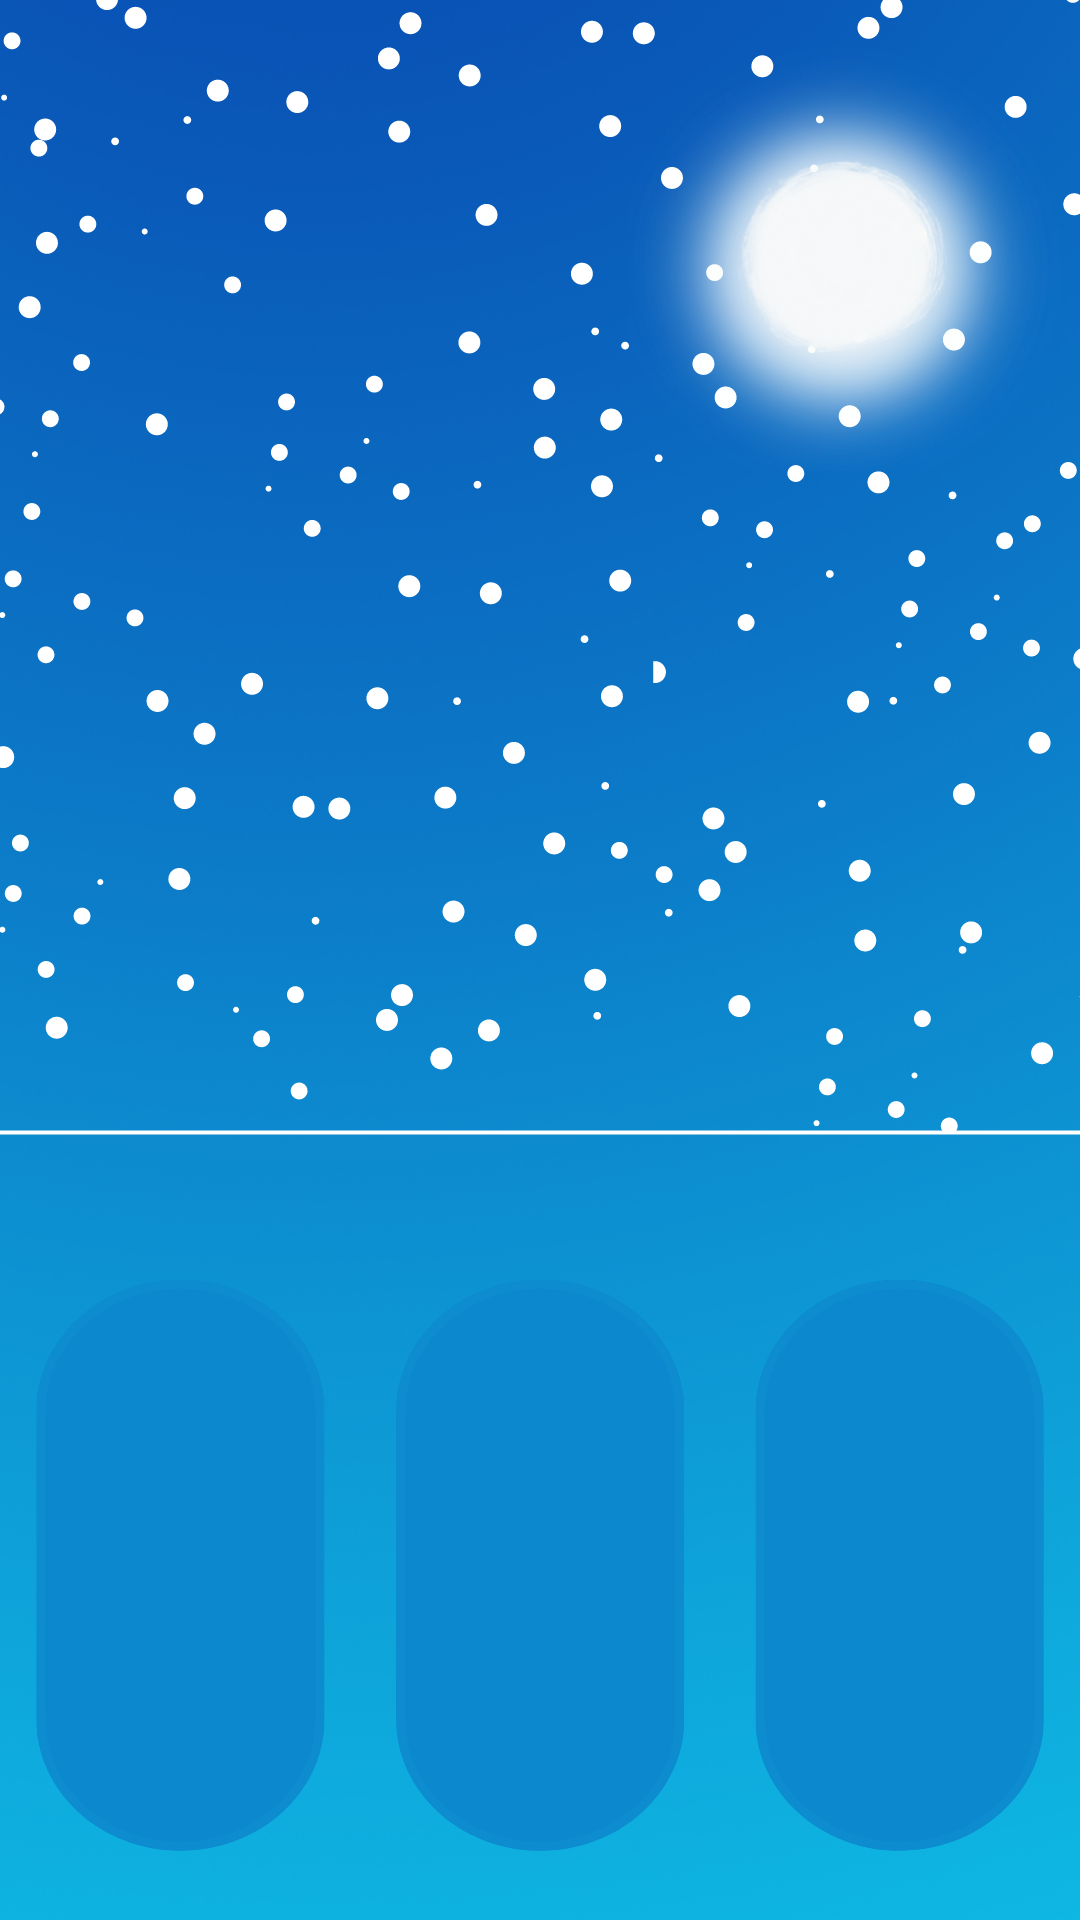
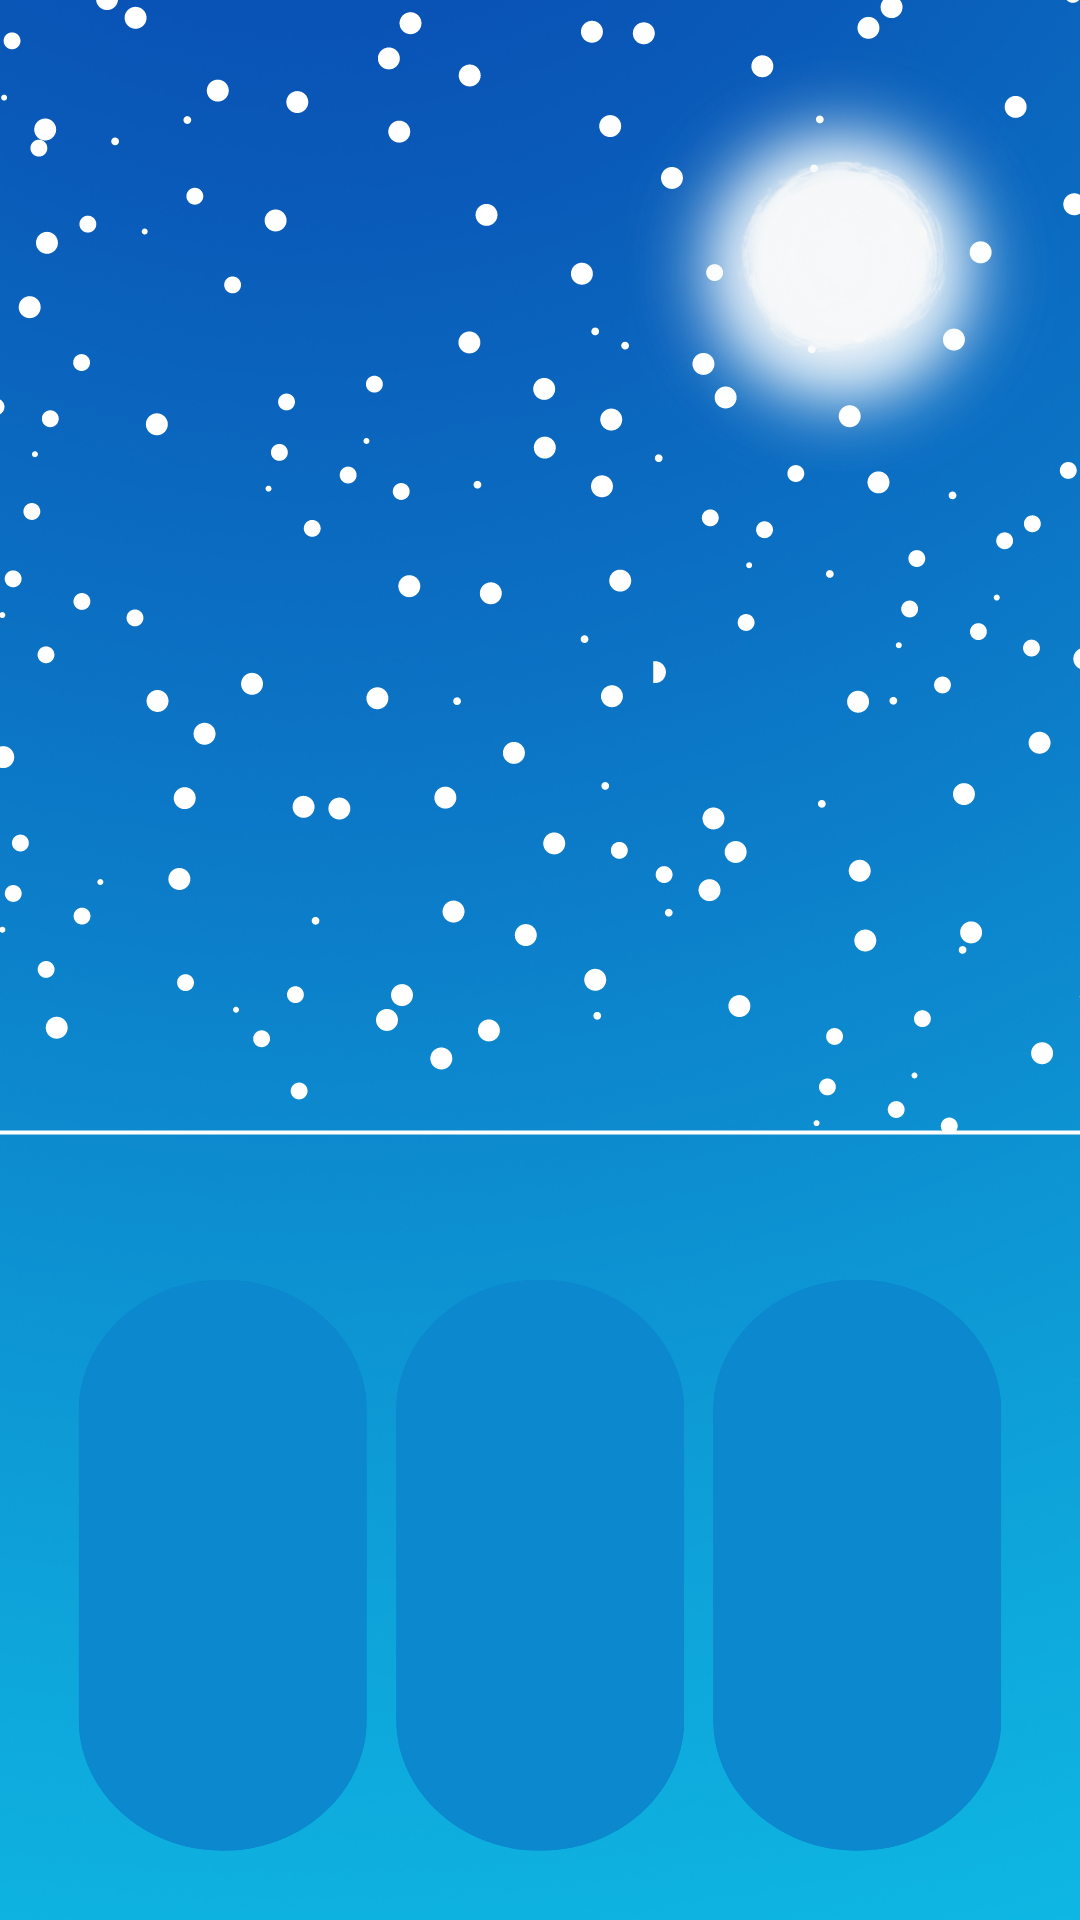
Creating forecast grid in JS

diff --git a/src/script.js b/src/script.js
@@ -60,6 +60,38 @@ function formatDate(date) {
 let todaysDate = document.querySelector("#current-date");
 todaysDate.innerHTML = formatDate(currentTime);
 
+// Current Location and data
+
+function currentLocation() {
+  navigator.geolocation.getCurrentPosition(getCityName);
+}
+
+function getCityName(position) {
+  let latitude = position.coords.latitude;
+  let longitude = position.coords.longitude;
+  let apiKey = "a7083641b7ebf003aec9614bf223ec5f";
+  let apiUrl = `http://api.openweathermap.org/geo/1.0/reverse?lat=${latitude}&lon=${longitude}&appid=${apiKey}`;
+  axios.get(apiUrl).then(displayCityName);
+}
+
+function displayCityName(response) {
+  currentCityDisplay = document.querySelector("#current-city");
+  currentCityName = response.data[0].name;
+  units = "metric";
+  apiKey = "a7083641b7ebf003aec9614bf223ec5f";
+  let currentTemperatureUrl = `https://api.openweathermap.org/data/2.5/weather?q=${currentCityName}&units=${unit}&appid=${apiKey}`;
+  currentCityDisplay.innerHTML = `${currentCityName}`;
+  axios.get(currentTemperatureUrl).then(showCurrentTemperature);
+}
+
+function showCurrentTemperature(response) {
+  let currentMainTemp = document.querySelector("#main-temp");
+  let currentTemp = Math.round(response.data.main.temp);
+  currentMainTemp.innerHTML = `${currentTemp}`;
+}
+
+window.onload = currentLocation;
+
 // Search Bar
 
 function cityName(event) {
@@ -75,11 +107,11 @@ function cityName(event) {
 
 function showMainTemperature(response) {
   let mainDegree = document.querySelector("#main-temp");
-  let mainTemp = Math.round(response.data.main.temp);
+  let mainTemp = Math.round(celsiusTemperature);
   let mainHighDegree = document.querySelector("#main-high");
-  let highTemp = Math.round(response.data.main.temp_max);
+  let highTemp = Math.round(celsiusTemperatureHigh);
   let mainLowDegree = document.querySelector("#main-low");
-  let lowTemp = Math.round(response.data.main.temp_min);
+  let lowTemp = Math.round(celsiusTemperatureLow);
   let mainForecast = document.querySelector("#main-forecast");
   let forecast = response.data.weather[0].main;
   let updateElement = document.querySelector("#updated");
@@ -97,12 +129,18 @@ function showMainTemperature(response) {
   if (forecastImage === "Rain") {
     forecastImage = "rainy";
   }
+
+  celsiusTemperature = response.data.main.temp;
+  celsiusTemperatureHigh = response.data.main.temp_max;
+  celsiusTemperatureLow = response.data.main.temp_min;
+
   mainDegree.innerHTML = `${mainTemp}`;
   mainHighDegree.innerHTML = `${highTemp}`;
   mainLowDegree.innerHTML = `${lowTemp}`;
   mainForecast.innerHTML = `${forecast}`;
   updateElement.innerHTML = formatUpdate(response.data.dt * 1000);
   backgroundImage.setAttribute("src", `images/${forecastImage}.png`);
+  backgroundImage.setAttribute("alt", response.data.weather[0].description);
 }
 
 function formatUpdate(timestamp) {
@@ -134,44 +172,66 @@ function formatUpdate(timestamp) {
 let form = document.querySelector(".search-bar");
 form.addEventListener("submit", cityName);
 
+// Forecast
+
+function displayForecast() {
+  let forecastElement = document.querySelector("#forecast");
+
+  let forecastHTML = `<div class="row">`;
+  let days = ["MON", "TUES", "WED"];
+  days.forEach(function (day) {
+    forecastHTML =
+      forecastHTML +
+      `<div class="col-4">
+  <h2 class="forecast-day" id="item1">${day}</h2>
+  <span class="fa-solid fa-sun" class="forecast-icon" id="item2"></span>
+  <br />
+  <p class="forecast-temp id="item3">
+   <span id="forecast-temp-high">29 |</span><span id="forecast-temp-low"> 23</span>
+  </p>
+</div>`;
+  });
+
+  forecastElement.innerHTML = forecastHTML;
+  displayForecast();
+}
+
 // Celsius / Fahrenheit Conversion
 
-function fahrenheitConversion() {
+function fahrenheitConversion(event) {
+  event.preventDefault();
   let mainDegree = document.querySelector("#main-temp");
-  let temperature = mainDegree.innerHTML;
-  let fahrenheit = Math.round((temperature * 9) / 5 + 32);
-  mainDegree.innerHTML = `${fahrenheit}`;
-
   let highDegree = document.querySelector("#main-high");
-  let highTemp = highDegree.innerHTML;
-  let highFahrenheit = Math.round((highTemp * 9) / 5 + 32);
-  highDegree.innerHTML = `${highFahrenheit}`;
-
   let lowDegree = document.querySelector("#main-low");
-  let lowTemp = lowDegree.innerHTML;
-  let lowFahrenheit = Math.round((lowTemp * 9) / 5 + 32);
-  lowDegree.innerHTML = `${lowFahrenheit}`;
+
+  celsiusLink.classList.remove("active");
+  fahrenheitLink.classList.add("active");
+
+  mainDegree.innerHTML = Math.round((celsiusTemperature * 9) / 5 + 32);
+  highDegree.innerHTML = Math.round((celsiusTemperatureHigh * 9) / 5 + 32);
+  lowDegree.innerHTML = Math.round((celsiusTemperatureLow * 9) / 5 + 32);
 }
 
-let conversion = document.querySelector("#fahrenheit-link");
-conversion.addEventListener("click", fahrenheitConversion);
+let fahrenheitLink = document.querySelector("#fahrenheit-link");
+fahrenheitLink.addEventListener("click", fahrenheitConversion);
 
-function celsiusConversion() {
+function celsiusConversion(event) {
+  event.preventDefault();
   let mainDegreeC = document.querySelector("#main-temp");
-  let temperatureC = mainDegreeC.innerHTML;
-  let celsius = Math.round(((temperatureC - 32) * 5) / 9);
-  mainDegreeC.innerHTML = `${celsius}`;
-
   let highDegreeC = document.querySelector("#main-high");
-  let highTempC = highDegreeC.innerHTML;
-  let highCelsius = Math.round(((highTempC - 32) * 5) / 9);
-  highDegreeC.innerHTML = `${highCelsius}`;
-
   let lowDegreeC = document.querySelector("#main-low");
-  let lowTempC = lowDegreeC.innerHTML;
-  let lowCelsius = Math.round(((lowTempC - 32) * 5) / 9);
-  lowDegreeC.innerHTML = `${lowCelsius}`;
+
+  fahrenheitLink.classList.remove("active");
+  celsiusLink.classList.add("active");
+
+  mainDegreeC.innerHTML = Math.round(celsiusTemperature);
+  highDegreeC.innerHTML = Math.round(celsiusTemperatureHigh);
+  lowDegreeC.innerHTML = Math.round(celsiusTemperatureLow);
 }
 
-let conversionBack = document.querySelector("#celsius-link");
-conversionBack.addEventListener("click", celsiusConversion);
+let celsiusLink = document.querySelector("#celsius-link");
+celsiusLink.addEventListener("click", celsiusConversion);
+
+let celsiusTemperature = null;
+let celsiusTemperatureHigh = null;
+let celsiusTemperatureLow = null;

diff --git a/vanilla-weather-index.html b/vanilla-weather-index.html
@@ -31,7 +31,7 @@
     ></script>
     <script src="https://unpkg.com/axios@1.1.2/dist/axios.min.js"></script>
   </head>
-  <body>
+  <body onload="javascript:currentLocation()">
     <div class="card text-bg-light" style="width: 28rem">
       <img id="main-image" src="images/sunny.png" alt="" />
       <div class="card-img-overlay">
@@ -58,12 +58,12 @@
 
           <div class="circle">
             <h3>
-              <button class="cLink" id="celsius-link">
-                <span id="main-celsius">°C </span></button
+              <a href="#" class="cLink" id="celsius-link">
+                <span id="main-celsius">°C </span></a
               ><span id="degree-divider">|</span>
-              <button id="fahrenheit-link">
+              <a href="#" id="fahrenheit-link">
                 <span id="main-fahrenheit"> °F</span>
-              </button>
+              </a>
             </h3>
             <h1 id="main-temp">27</h1>
             <br />
@@ -72,7 +72,7 @@
               <span id="temp-divider">|</span>
               <span id="main-low">24</span>
             </h3>
-            <p id="updated">Last updated</p>
+            <p id="updated"></p>
           </div>
           <br />
           <div class="card-text">
@@ -80,33 +80,7 @@
               <strong>Hello beautiful soul</strong>
             </p>
             <br />
-            <div class="day-one">
-              <h2 id="day-one">MON</h2>
-              <span class="fa-solid fa-sun" id="day-one-icon"></span>
-              <p>
-                <span id="day-one-high-temp">29 </span>
-                <span id="day-one-line">|</span>
-                <span id="day-one-low-temp">23 </span>
-              </p>
-            </div>
-            <div class="day-two">
-              <h2 id="day-two">TUES</h2>
-              <span class="fa-solid fa-cloud-sun" id="day-two-icon"></span>
-              <p>
-                <span id="day-two-high-temp">29 </span>
-                <span id="day-two-line">|</span>
-                <span id="day-two-low-temp">24 </span>
-              </p>
-            </div>
-            <div class="day-three">
-              <h2 id="day-three">WED</h2>
-              <span class="fa-solid fa-cloud-rain" id="day-three-icon"></span>
-              <p>
-                <span id="day-three-high-temp">29 </span>
-                <span id="day-three-line">|</span>
-                <span id="day-three-low-temp">21</span>
-              </p>
-            </div>
+            <div class="weather-forecast" id="forecast"></div>
             <div>
               <a href="#" id="left-arrow-link">
                 <span class="fa-solid fa-chevron-left" id="left-arrow"></span
@@ -115,6 +89,7 @@
                 ><span class="fa-solid fa-chevron-right" id="right-arrow"></span
               ></a>
             </div>
+            `;
           </div>
         </div>
       </div>

diff --git a/src/styles.css b/src/styles.css
@@ -85,7 +85,7 @@ button {
   font-size: 22px;
   position: relative;
   top: 20px;
-  right: 20%;
+  left: 2%;
   color: rgba(66, 75, 79, 0.6);
 }
 
@@ -137,122 +137,35 @@ button {
   margin-top: 2%;
 }
 
-#day-one {
+#item1 {
   font-family: "Poppins", sans-serif;
   font-size: 25px;
-  position: absolute;
-  right: 73%;
-  top: 72.5%;
+  position: relative;
+  top: 10px;
 }
 
-#day-one-icon {
-  font-size: 60px;
+#item2 {
+  text-align: center;
   color: rgba(66, 75, 79, 0.4);
-  position: absolute;
-  left: 14%;
-  top: 78.5%;
-}
-
-#day-one-high-temp {
-  font-family: "Poppins", sans-serif;
-  font-size: 20px;
-  position: absolute;
-  right: 82%;
-  top: 89%;
-}
-
-#day-one-low-temp {
-  font-family: "Poppins", sans-serif;
-  color: rgba(66, 75, 79, 0.6);
-  font-size: 20px;
-  position: absolute;
-  bottom: 7.2%;
-  right: 72.2%;
-}
-
-#day-one-line {
-  position: absolute;
-  bottom: 7.6%;
-  right: 79.4%;
-}
-
-#day-two {
-  font-family: "Poppins", sans-serif;
-  font-size: 25px;
-  position: absolute;
-  bottom: 22.5%;
-  left: 44%;
-}
-
-#day-two-icon {
   font-size: 60px;
+  position: relative;
+  left: 23%;
+  top: 15%;
+}
+#item3 {
+  font-family: "Poppins", sans-serif;
+  font-size: 20px;
+}
+
+#forecast-temp-high,
+#forecast-temp-low {
+  position: relative;
+  top: 40px;
+}
+
+#forecast-temp-low {
   color: rgba(66, 75, 79, 0.4);
-  position: absolute;
-  bottom: 14%;
-  left: 41.5%;
 }
-
-#day-two-high-temp {
-  font-family: "Poppins", sans-serif;
-  font-size: 20px;
-  position: absolute;
-  bottom: 7.2%;
-  left: 42.3%;
-}
-
-#day-two-low-temp {
-  font-family: "Poppins", sans-serif;
-  color: rgba(66, 75, 79, 0.6);
-  font-size: 20px;
-  position: absolute;
-  bottom: 7.2%;
-  left: 52%;
-}
-
-#day-two-line {
-  position: absolute;
-  bottom: 7.6%;
-  left: 49.5%;
-}
-#day-three {
-  font-family: "Poppins", sans-serif;
-  font-size: 25px;
-  position: absolute;
-  bottom: 22.5%;
-  left: 73.5%;
-}
-
-#day-three-icon {
-  font-size: 60px;
-  color: rgba(66, 75, 79, 0.4);
-  position: absolute;
-  bottom: 14%;
-  left: 73%;
-}
-
-#day-three-high-temp {
-  font-family: "Poppins", sans-serif;
-  font-size: 20px;
-  position: absolute;
-  bottom: 7.2%;
-  left: 72%;
-}
-
-#day-three-low-temp {
-  font-family: "Poppins", sans-serif;
-  color: rgba(66, 75, 79, 0.6);
-  font-size: 20px;
-  position: absolute;
-  bottom: 7.2%;
-  left: 82%;
-}
-
-#day-three-line {
-  position: absolute;
-  bottom: 7.6%;
-  left: 79.2%;
-}
-
 #left-arrow {
   color: rgba(66, 75, 79, 0.6);
   font-size: 30px;
